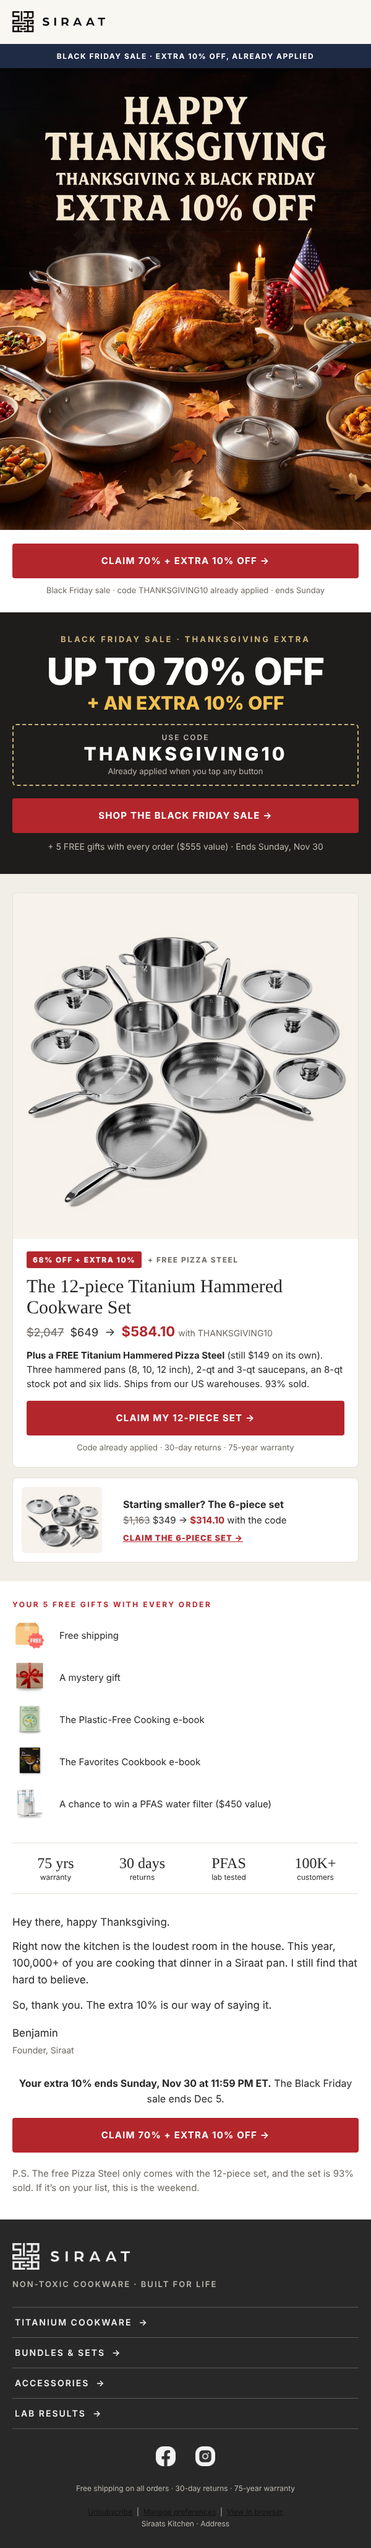
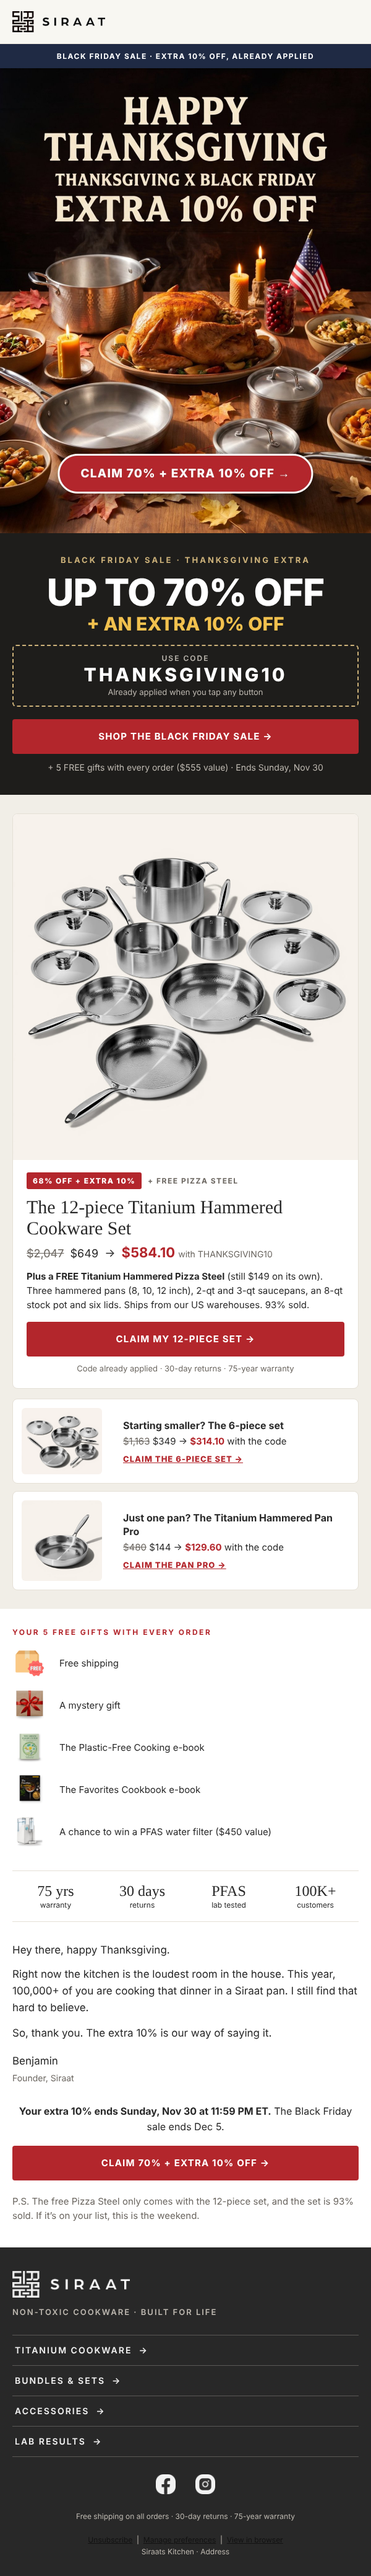
US Thanksgiving: CTA pill in hero, Pan Pro card
Claude-Session: https://claude.ai/code/session_01HjCaDE95ohEXY6DPZTSH67

diff --git a/klaviyo/templates/v3/campaigns/thanksgiving-1126/us.html b/klaviyo/templates/v3/campaigns/thanksgiving-1126/us.html
@@ -18,11 +18,11 @@
 </td></tr>
 
 <tr><td bgcolor="#1F2A44" style="background-color:#1F2A44;padding:11px 20px;text-align:center;font-family:Inter,Arial,Helvetica,sans-serif;font-size:12px;line-height:17px;letter-spacing:1.5px;font-weight:700;color:#FFFFFF;">BLACK FRIDAY SALE &middot; EXTRA 10% OFF, ALREADY APPLIED</td></tr>
-<tr><td style="padding:0;"><a href="https://siraatskitchen.com/discount/THANKSGIVING10?redirect=/collections/black-friday-sale&utm_source=klaviyo&utm_medium=email&utm_campaign=thanksgiving-1126-us&utm_content=hero"><img src="https://cdn.klaviyomail.com/company/TdtTzz/images/2dc59602-fd53-498e-814d-aebfafda4e72.jpeg" width="600" alt="Happy Thanksgiving. Thanksgiving x Black Friday, extra 10% off." style="display:block;width:100%;max-width:600px;height:auto;border:0;"></a></td></tr>
-<tr><td class="pad" bgcolor="#FFFFFF" style="padding:22px 40px 26px 40px;background-color:#FFFFFF;"><table role="presentation" width="100%" cellpadding="0" cellspacing="0" border="0"><tr><td align="center" bgcolor="#B3262C" style="background-color:#B3262C;border-radius:4px;"><a href="https://siraatskitchen.com/discount/THANKSGIVING10?redirect=/collections/black-friday-sale&utm_source=klaviyo&utm_medium=email&utm_campaign=thanksgiving-1126-us&utm_content=hero-btn" style="display:block;padding:18px 20px;font-family:Inter,Arial,Helvetica,sans-serif;font-size:15px;line-height:20px;font-weight:700;letter-spacing:1.2px;text-transform:uppercase;color:#FFFFFF;text-decoration:none;">Claim 70% + extra 10% off &rarr;</a></td></tr></table><div style="font-family:Inter,Arial,Helvetica,sans-serif;font-size:13px;line-height:19px;color:#6B6660;text-align:center;padding:10px 0 0 0;">Black Friday sale &middot; code THANKSGIVING10 already applied &middot; ends Sunday</div></td></tr>
+<tr><td style="padding:0;"><a href="https://siraatskitchen.com/discount/THANKSGIVING10?redirect=/collections/black-friday-sale&utm_source=klaviyo&utm_medium=email&utm_campaign=thanksgiving-1126-us&utm_content=hero"><img src="https://cdn.klaviyomail.com/company/TdtTzz/images/cd7837e2-7ead-4f54-aa2d-1afe2ec527fb.jpeg" width="600" alt="Happy Thanksgiving. Thanksgiving x Black Friday, extra 10% off. Claim 70% + extra 10% off." style="display:block;width:100%;max-width:600px;height:auto;border:0;"></a></td></tr>
 <tr><td class="pad" bgcolor="#1E1D1B" style="padding:34px 40px 34px 40px;background-color:#1E1D1B;"><div style="font-family:Inter,Arial,Helvetica,sans-serif;font-size:13px;line-height:18px;letter-spacing:3px;font-weight:700;color:#CDB27A;text-align:center;">BLACK FRIDAY SALE &middot; THANKSGIVING EXTRA</div><div style="font-family:Inter,Arial,Helvetica,sans-serif;font-size:60px;line-height:62px;font-weight:800;color:#FFFFFF;text-align:center;padding:12px 0 2px 0;letter-spacing:-1px;">UP TO 70% OFF</div><div style="font-family:Inter,Arial,Helvetica,sans-serif;font-size:30px;line-height:36px;font-weight:800;color:#F2C14E;text-align:center;padding-bottom:16px;">+ AN EXTRA 10% OFF</div><table role="presentation" width="100%" cellpadding="0" cellspacing="0" border="0"><tr><td align="center" style="border:2px dashed #CDB27A;border-radius:6px;padding:12px;"><div style="font-family:Inter,Arial,Helvetica,sans-serif;font-size:12px;letter-spacing:2px;font-weight:600;color:#BDB8B0;">USE CODE</div><div style="font-family:Inter,Arial,Helvetica,sans-serif;font-size:30px;line-height:38px;letter-spacing:4px;font-weight:800;color:#FFFFFF;">THANKSGIVING10</div><div style="font-family:Inter,Arial,Helvetica,sans-serif;font-size:13px;line-height:19px;color:#BDB8B0;">Already applied when you tap any button</div></td></tr></table><div style="height:20px;">&nbsp;</div><table role="presentation" width="100%" cellpadding="0" cellspacing="0" border="0"><tr><td align="center" bgcolor="#B3262C" style="background-color:#B3262C;border-radius:4px;"><a href="https://siraatskitchen.com/discount/THANKSGIVING10?redirect=/collections/black-friday-sale&utm_source=klaviyo&utm_medium=email&utm_campaign=thanksgiving-1126-us&utm_content=offer-btn" style="display:block;padding:18px 20px;font-family:Inter,Arial,Helvetica,sans-serif;font-size:15px;line-height:20px;font-weight:700;letter-spacing:1.2px;text-transform:uppercase;color:#FFFFFF;text-decoration:none;">Shop the Black Friday sale &rarr;</a></td></tr></table><div style="font-family:Inter,Arial,Helvetica,sans-serif;font-size:14px;line-height:20px;color:#BDB8B0;text-align:center;padding:12px 0 0 0;">+ 5 FREE gifts with every order ($555 value) &middot; Ends Sunday, Nov 30</div></td></tr>
 <tr><td class="pad" bgcolor="#F1EEE7" style="padding:30px 20px 16px 20px;background-color:#F1EEE7;"><table role="presentation" width="100%" cellpadding="0" cellspacing="0" border="0" style="background:#FFFFFF;border:1px solid #E5E0D6;border-radius:8px;"><tr><td style="padding:0;"><a href="https://siraatskitchen.com/discount/THANKSGIVING10?redirect=/products/titanium-hammered-cookware-set-12-pcs-free-pizza-steel-1&utm_source=klaviyo&utm_medium=email&utm_campaign=thanksgiving-1126-us&utm_content=set12-img"><img src="https://cdn.shopify.com/s/files/1/0907/0877/1156/files/12pcsset.webp?v=1781591412&width=1100&height=1100&crop=center&format=pjpg" width="558" alt="Siraat Titanium Hammered Cookware Set, 12 pieces" style="display:block;width:100%;max-width:558px;height:auto;border:0;border-radius:8px 8px 0 0;"></a></td></tr><tr><td style="padding:20px 22px 22px 22px;"><table role="presentation" cellpadding="0" cellspacing="0" border="0"><tr><td bgcolor="#B3262C" style="background-color:#B3262C;border-radius:3px;padding:6px 10px;font-family:Inter,Arial,Helvetica,sans-serif;font-size:12px;font-weight:800;letter-spacing:1.5px;color:#FFFFFF;">68% OFF + EXTRA 10%</td><td style="padding-left:10px;font-family:Inter,Arial,Helvetica,sans-serif;font-size:12px;font-weight:700;letter-spacing:1.5px;color:#6B6660;">+ FREE PIZZA STEEL</td></tr></table><div class="h2" style="font-family:'Instrument Serif','Times New Roman',Times,serif;font-size:30px;line-height:34px;color:#282828;padding:12px 0 8px 0;">The 12-piece Titanium Hammered Cookware Set</div><div style="font-family:Inter,Arial,Helvetica,sans-serif;font-size:18px;line-height:28px;color:#282828;text-align:left;padding:0 0 10px 0;"><span style="text-decoration:line-through;color:#6B6660;">$2,047</span> &nbsp;$649 &nbsp;&rarr;&nbsp; <b style="color:#B3262C;font-size:22px;">$584.10</b> <span style="color:#6B6660;font-size:14px;">with THANKSGIVING10</span></div><div style="font-family:Inter,Arial,Helvetica,sans-serif;font-size:15px;line-height:23px;color:#282828;text-align:left;padding:0 0 16px 0;"><b>Plus a FREE Titanium Hammered Pizza Steel</b> (still $149 on its own). Three hammered pans (8, 10, 12 inch), 2-qt and 3-qt saucepans, an 8-qt stock pot and six lids. Ships from our US warehouses. 93% sold.</div><table role="presentation" width="100%" cellpadding="0" cellspacing="0" border="0"><tr><td align="center" bgcolor="#B3262C" style="background-color:#B3262C;border-radius:4px;"><a href="https://siraatskitchen.com/discount/THANKSGIVING10?redirect=/products/titanium-hammered-cookware-set-12-pcs-free-pizza-steel-1&utm_source=klaviyo&utm_medium=email&utm_campaign=thanksgiving-1126-us&utm_content=set12-btn" style="display:block;padding:18px 20px;font-family:Inter,Arial,Helvetica,sans-serif;font-size:15px;line-height:20px;font-weight:700;letter-spacing:1.2px;text-transform:uppercase;color:#FFFFFF;text-decoration:none;">Claim my 12-piece set &rarr;</a></td></tr></table><div style="font-family:Inter,Arial,Helvetica,sans-serif;font-size:13px;line-height:19px;color:#6B6660;text-align:center;padding:10px 0 0 0;">Code already applied &middot; 30-day returns &middot; 75-year warranty</div></td></tr></table></td></tr>
-<tr><td class="pad" bgcolor="#F1EEE7" style="padding:0 20px 30px 20px;background-color:#F1EEE7;"><table role="presentation" width="100%" cellpadding="0" cellspacing="0" border="0" style="background:#FFFFFF;border:1px solid #E5E0D6;border-radius:8px;"><tr><td width="150" valign="middle" style="padding:14px;"><a href="https://siraatskitchen.com/discount/THANKSGIVING10?redirect=/products/titanium-hammered-pan-set-with-lids-6-pcs&utm_source=klaviyo&utm_medium=email&utm_campaign=thanksgiving-1126-us&utm_content=set6-img"><img src="https://cdn.shopify.com/s/files/1/0907/0877/1156/files/6pcscookwareset.webp?v=1783062518&width=1100&height=900&crop=center&format=pjpg" width="130" alt="Siraat 6-piece hammered pan set with lids" style="display:block;width:130px;height:auto;border-radius:6px;border:0;"></a></td><td valign="middle" style="padding:14px 14px 14px 0;"><div style="font-family:Inter,Arial,Helvetica,sans-serif;font-size:16px;line-height:22px;color:#282828;text-align:left;padding:0 0 4px 0;"><b>Starting smaller? The 6-piece set</b></div><div style="font-family:Inter,Arial,Helvetica,sans-serif;font-size:15px;line-height:22px;color:#282828;text-align:left;padding:0 0 8px 0;"><span style=text-decoration:line-through;color:#6B6660;>$1,163</span> $349 &rarr; <b style=color:#B3262C;>$314.10</b> with the code</div><a href="https://siraatskitchen.com/discount/THANKSGIVING10?redirect=/products/titanium-hammered-pan-set-with-lids-6-pcs&utm_source=klaviyo&utm_medium=email&utm_campaign=thanksgiving-1126-us&utm_content=set6-btn" style="font-family:Inter,Arial,Helvetica,sans-serif;font-size:13px;font-weight:800;letter-spacing:1px;color:#B3262C;">CLAIM THE 6-PIECE SET &rarr;</a></td></tr></table></td></tr>
+<tr><td class="pad" bgcolor="#F1EEE7" style="padding:0 20px 12px 20px;background-color:#F1EEE7;"><table role="presentation" width="100%" cellpadding="0" cellspacing="0" border="0" style="background:#FFFFFF;border:1px solid #E5E0D6;border-radius:8px;"><tr><td width="150" valign="middle" style="padding:14px;"><a href="https://siraatskitchen.com/discount/THANKSGIVING10?redirect=/products/titanium-hammered-pan-set-with-lids-6-pcs&utm_source=klaviyo&utm_medium=email&utm_campaign=thanksgiving-1126-us&utm_content=set6-img"><img src="https://cdn.shopify.com/s/files/1/0907/0877/1156/files/6pcscookwareset.webp?v=1783062518&width=1100&height=900&crop=center&format=pjpg" width="130" alt="Siraat 6-piece hammered pan set with lids" style="display:block;width:130px;height:auto;border-radius:6px;border:0;"></a></td><td valign="middle" style="padding:14px 14px 14px 0;"><div style="font-family:Inter,Arial,Helvetica,sans-serif;font-size:16px;line-height:22px;color:#282828;text-align:left;padding:0 0 4px 0;"><b>Starting smaller? The 6-piece set</b></div><div style="font-family:Inter,Arial,Helvetica,sans-serif;font-size:15px;line-height:22px;color:#282828;text-align:left;padding:0 0 8px 0;"><span style=text-decoration:line-through;color:#6B6660;>$1,163</span> $349 &rarr; <b style=color:#B3262C;>$314.10</b> with the code</div><a href="https://siraatskitchen.com/discount/THANKSGIVING10?redirect=/products/titanium-hammered-pan-set-with-lids-6-pcs&utm_source=klaviyo&utm_medium=email&utm_campaign=thanksgiving-1126-us&utm_content=set6-btn" style="font-family:Inter,Arial,Helvetica,sans-serif;font-size:13px;font-weight:800;letter-spacing:1px;color:#B3262C;">CLAIM THE 6-PIECE SET &rarr;</a></td></tr></table></td></tr>
+<tr><td class="pad" bgcolor="#F1EEE7" style="padding:0 20px 30px 20px;background-color:#F1EEE7;"><table role="presentation" width="100%" cellpadding="0" cellspacing="0" border="0" style="background:#FFFFFF;border:1px solid #E5E0D6;border-radius:8px;"><tr><td width="150" valign="middle" style="padding:14px;"><a href="https://siraatskitchen.com/discount/THANKSGIVING10?redirect=/products/original-siraat-100-pure-titanium-pan-with-hammered-pattern&utm_source=klaviyo&utm_medium=email&utm_campaign=thanksgiving-1126-us&utm_content=pan-img"><img src="https://cdn.shopify.com/s/files/1/0907/0877/1156/files/Titanium_hammered_pan_pro_standard_b69d1fc5-43d8-40a5-9ad7-523bdddc54d4.webp?v=1781682831&width=400&height=400&crop=center&format=pjpg" width="130" alt="Siraat Titanium Hammered Pan Pro Standard" style="display:block;width:130px;height:auto;border-radius:6px;border:0;"></a></td><td valign="middle" style="padding:14px 14px 14px 0;"><div style="font-family:Inter,Arial,Helvetica,sans-serif;font-size:16px;line-height:22px;color:#282828;text-align:left;padding:0 0 4px 0;"><b>Just one pan? The Titanium Hammered Pan Pro</b></div><div style="font-family:Inter,Arial,Helvetica,sans-serif;font-size:15px;line-height:22px;color:#282828;text-align:left;padding:0 0 8px 0;"><span style=text-decoration:line-through;color:#6B6660;>$480</span> $144 &rarr; <b style=color:#B3262C;>$129.60</b> with the code</div><a href="https://siraatskitchen.com/discount/THANKSGIVING10?redirect=/products/original-siraat-100-pure-titanium-pan-with-hammered-pattern&utm_source=klaviyo&utm_medium=email&utm_campaign=thanksgiving-1126-us&utm_content=pan-btn" style="font-family:Inter,Arial,Helvetica,sans-serif;font-size:13px;font-weight:800;letter-spacing:1px;color:#B3262C;">CLAIM THE PAN PRO &rarr;</a></td></tr></table></td></tr>
 <tr><td class="pad" bgcolor="#FFFFFF" style="padding:30px 40px 18px 40px;background-color:#FFFFFF;"><div style="font-family:Inter,Arial,Helvetica,sans-serif;font-size:12px;line-height:16px;letter-spacing:2.5px;font-weight:700;color:#B3262C;text-transform:uppercase;padding-bottom:8px;">Your 5 free gifts with every order</div><table role="presentation" width="100%" cellpadding="0" cellspacing="0" border="0"><tr><td width="64" style="padding:6px 12px 6px 0;"><img src="https://cdn.klaviyomail.com/company/TdtTzz/images/fc1878e8-1cc0-4699-8f62-1110afb1750e.jpeg" width="56" alt="" style="display:block;width:56px;height:56px;border-radius:6px;"></td><td style="font-family:Inter,Arial,Helvetica,sans-serif;font-size:15px;line-height:21px;color:#282828;">Free shipping</td></tr><tr><td width="64" style="padding:6px 12px 6px 0;"><img src="https://cdn.klaviyomail.com/company/TdtTzz/images/c97cf7a9-cccf-4472-a592-d49747b6d6a7.jpeg" width="56" alt="" style="display:block;width:56px;height:56px;border-radius:6px;"></td><td style="font-family:Inter,Arial,Helvetica,sans-serif;font-size:15px;line-height:21px;color:#282828;">A mystery gift</td></tr><tr><td width="64" style="padding:6px 12px 6px 0;"><img src="https://cdn.klaviyomail.com/company/TdtTzz/images/3fab7ff2-1993-48d2-8567-d9f3d0ce04dd.jpeg" width="56" alt="" style="display:block;width:56px;height:56px;border-radius:6px;"></td><td style="font-family:Inter,Arial,Helvetica,sans-serif;font-size:15px;line-height:21px;color:#282828;">The Plastic-Free Cooking e-book</td></tr><tr><td width="64" style="padding:6px 12px 6px 0;"><img src="https://cdn.klaviyomail.com/company/TdtTzz/images/dabf0446-a5d7-49ae-87f8-672e5692bf5b.jpeg" width="56" alt="" style="display:block;width:56px;height:56px;border-radius:6px;"></td><td style="font-family:Inter,Arial,Helvetica,sans-serif;font-size:15px;line-height:21px;color:#282828;">The Favorites Cookbook e-book</td></tr><tr><td width="64" style="padding:6px 12px 6px 0;"><img src="https://cdn.klaviyomail.com/company/TdtTzz/images/a6aec8e7-f289-424e-ab60-689f1ae85c39.jpeg" width="56" alt="" style="display:block;width:56px;height:56px;border-radius:6px;"></td><td style="font-family:Inter,Arial,Helvetica,sans-serif;font-size:15px;line-height:21px;color:#282828;">A chance to win a PFAS water filter ($450 value)</td></tr></table></td></tr>
 <tr><td class="pad" bgcolor="#FFFFFF" style="padding:10px 40px 6px 40px;background-color:#FFFFFF;"><table role="presentation" width="100%" cellpadding="0" cellspacing="0" border="0" style="border-top:1px solid #E5E0D6;border-bottom:1px solid #E5E0D6;"><tr><td style="padding:18px 0;"><table role="presentation" width="100%" cellpadding="0" cellspacing="0" border="0"><tr><td width="25%" align="center" valign="top" style="padding:0 4px;font-family:Inter,Arial,Helvetica,sans-serif;font-size:12px;line-height:17px;color:#282828;"><div style="font-family:'Instrument Serif','Times New Roman',Times,serif;font-size:24px;line-height:28px;">75 yrs</div>warranty</td><td width="25%" align="center" valign="top" style="padding:0 4px;font-family:Inter,Arial,Helvetica,sans-serif;font-size:12px;line-height:17px;color:#282828;"><div style="font-family:'Instrument Serif','Times New Roman',Times,serif;font-size:24px;line-height:28px;">30 days</div>returns</td><td width="25%" align="center" valign="top" style="padding:0 4px;font-family:Inter,Arial,Helvetica,sans-serif;font-size:12px;line-height:17px;color:#282828;"><div style="font-family:'Instrument Serif','Times New Roman',Times,serif;font-size:24px;line-height:28px;">PFAS</div>lab tested</td><td width="25%" align="center" valign="top" style="padding:0 4px;font-family:Inter,Arial,Helvetica,sans-serif;font-size:12px;line-height:17px;color:#282828;"><div style="font-family:'Instrument Serif','Times New Roman',Times,serif;font-size:24px;line-height:28px;">100K+</div>customers</td></tr></table></td></tr></table></td></tr>
 <tr><td class="pad" bgcolor="#FFFFFF" style="padding:0 40px 10px 40px;background-color:#FFFFFF;"><div style="font-family:Inter,Arial,Helvetica,sans-serif;font-size:17px;line-height:27px;color:#282828;text-align:left;padding:26px 0 12px 0;">Hey {{ first_name|default:'there' }}, happy Thanksgiving.</div><div style="font-family:Inter,Arial,Helvetica,sans-serif;font-size:17px;line-height:27px;color:#282828;text-align:left;padding:0 0 14px 0;">Right now the kitchen is the loudest room in the house. This year, 100,000+ of you are cooking that dinner in a Siraat pan. I still find that hard to believe.</div><div style="font-family:Inter,Arial,Helvetica,sans-serif;font-size:17px;line-height:27px;color:#282828;text-align:left;padding:0 0 14px 0;">So, thank you. The extra 10% is our way of saying it.</div><div style="font-family:Inter,Arial,Helvetica,sans-serif;font-size:17px;line-height:27px;color:#282828;text-align:left;padding:4px 0 0 0;">Benjamin<br><span style="color:#6B6660;font-size:14px;">Founder, Siraat</span></div></td></tr>

diff --git a/klaviyo/templates/v3/campaigns/thanksgiving-1126/_tools/.preview/us.html b/klaviyo/templates/v3/campaigns/thanksgiving-1126/_tools/.preview/us.html
@@ -18,11 +18,11 @@
 </td></tr>
 
 <tr><td bgcolor="#1F2A44" style="background-color:#1F2A44;padding:11px 20px;text-align:center;font-family:Inter,Arial,Helvetica,sans-serif;font-size:12px;line-height:17px;letter-spacing:1.5px;font-weight:700;color:#FFFFFF;">BLACK FRIDAY SALE &middot; EXTRA 10% OFF, ALREADY APPLIED</td></tr>
-<tr><td style="padding:0;"><a href="https://siraatskitchen.com/discount/THANKSGIVING10?redirect=/collections/black-friday-sale&utm_source=klaviyo&utm_medium=email&utm_campaign=thanksgiving-1126-us&utm_content=hero"><img src="https://cdn.klaviyomail.com/company/TdtTzz/images/2dc59602-fd53-498e-814d-aebfafda4e72.jpeg" width="600" alt="Happy Thanksgiving. Thanksgiving x Black Friday, extra 10% off." style="display:block;width:100%;max-width:600px;height:auto;border:0;"></a></td></tr>
-<tr><td class="pad" bgcolor="#FFFFFF" style="padding:22px 40px 26px 40px;background-color:#FFFFFF;"><table role="presentation" width="100%" cellpadding="0" cellspacing="0" border="0"><tr><td align="center" bgcolor="#B3262C" style="background-color:#B3262C;border-radius:4px;"><a href="https://siraatskitchen.com/discount/THANKSGIVING10?redirect=/collections/black-friday-sale&utm_source=klaviyo&utm_medium=email&utm_campaign=thanksgiving-1126-us&utm_content=hero-btn" style="display:block;padding:18px 20px;font-family:Inter,Arial,Helvetica,sans-serif;font-size:15px;line-height:20px;font-weight:700;letter-spacing:1.2px;text-transform:uppercase;color:#FFFFFF;text-decoration:none;">Claim 70% + extra 10% off &rarr;</a></td></tr></table><div style="font-family:Inter,Arial,Helvetica,sans-serif;font-size:13px;line-height:19px;color:#6B6660;text-align:center;padding:10px 0 0 0;">Black Friday sale &middot; code THANKSGIVING10 already applied &middot; ends Sunday</div></td></tr>
+<tr><td style="padding:0;"><a href="https://siraatskitchen.com/discount/THANKSGIVING10?redirect=/collections/black-friday-sale&utm_source=klaviyo&utm_medium=email&utm_campaign=thanksgiving-1126-us&utm_content=hero"><img src="https://cdn.klaviyomail.com/company/TdtTzz/images/cd7837e2-7ead-4f54-aa2d-1afe2ec527fb.jpeg" width="600" alt="Happy Thanksgiving. Thanksgiving x Black Friday, extra 10% off. Claim 70% + extra 10% off." style="display:block;width:100%;max-width:600px;height:auto;border:0;"></a></td></tr>
 <tr><td class="pad" bgcolor="#1E1D1B" style="padding:34px 40px 34px 40px;background-color:#1E1D1B;"><div style="font-family:Inter,Arial,Helvetica,sans-serif;font-size:13px;line-height:18px;letter-spacing:3px;font-weight:700;color:#CDB27A;text-align:center;">BLACK FRIDAY SALE &middot; THANKSGIVING EXTRA</div><div style="font-family:Inter,Arial,Helvetica,sans-serif;font-size:60px;line-height:62px;font-weight:800;color:#FFFFFF;text-align:center;padding:12px 0 2px 0;letter-spacing:-1px;">UP TO 70% OFF</div><div style="font-family:Inter,Arial,Helvetica,sans-serif;font-size:30px;line-height:36px;font-weight:800;color:#F2C14E;text-align:center;padding-bottom:16px;">+ AN EXTRA 10% OFF</div><table role="presentation" width="100%" cellpadding="0" cellspacing="0" border="0"><tr><td align="center" style="border:2px dashed #CDB27A;border-radius:6px;padding:12px;"><div style="font-family:Inter,Arial,Helvetica,sans-serif;font-size:12px;letter-spacing:2px;font-weight:600;color:#BDB8B0;">USE CODE</div><div style="font-family:Inter,Arial,Helvetica,sans-serif;font-size:30px;line-height:38px;letter-spacing:4px;font-weight:800;color:#FFFFFF;">THANKSGIVING10</div><div style="font-family:Inter,Arial,Helvetica,sans-serif;font-size:13px;line-height:19px;color:#BDB8B0;">Already applied when you tap any button</div></td></tr></table><div style="height:20px;">&nbsp;</div><table role="presentation" width="100%" cellpadding="0" cellspacing="0" border="0"><tr><td align="center" bgcolor="#B3262C" style="background-color:#B3262C;border-radius:4px;"><a href="https://siraatskitchen.com/discount/THANKSGIVING10?redirect=/collections/black-friday-sale&utm_source=klaviyo&utm_medium=email&utm_campaign=thanksgiving-1126-us&utm_content=offer-btn" style="display:block;padding:18px 20px;font-family:Inter,Arial,Helvetica,sans-serif;font-size:15px;line-height:20px;font-weight:700;letter-spacing:1.2px;text-transform:uppercase;color:#FFFFFF;text-decoration:none;">Shop the Black Friday sale &rarr;</a></td></tr></table><div style="font-family:Inter,Arial,Helvetica,sans-serif;font-size:14px;line-height:20px;color:#BDB8B0;text-align:center;padding:12px 0 0 0;">+ 5 FREE gifts with every order ($555 value) &middot; Ends Sunday, Nov 30</div></td></tr>
 <tr><td class="pad" bgcolor="#F1EEE7" style="padding:30px 20px 16px 20px;background-color:#F1EEE7;"><table role="presentation" width="100%" cellpadding="0" cellspacing="0" border="0" style="background:#FFFFFF;border:1px solid #E5E0D6;border-radius:8px;"><tr><td style="padding:0;"><a href="https://siraatskitchen.com/discount/THANKSGIVING10?redirect=/products/titanium-hammered-cookware-set-12-pcs-free-pizza-steel-1&utm_source=klaviyo&utm_medium=email&utm_campaign=thanksgiving-1126-us&utm_content=set12-img"><img src="https://cdn.shopify.com/s/files/1/0907/0877/1156/files/12pcsset.webp?v=1781591412&width=1100&height=1100&crop=center&format=pjpg" width="558" alt="Siraat Titanium Hammered Cookware Set, 12 pieces" style="display:block;width:100%;max-width:558px;height:auto;border:0;border-radius:8px 8px 0 0;"></a></td></tr><tr><td style="padding:20px 22px 22px 22px;"><table role="presentation" cellpadding="0" cellspacing="0" border="0"><tr><td bgcolor="#B3262C" style="background-color:#B3262C;border-radius:3px;padding:6px 10px;font-family:Inter,Arial,Helvetica,sans-serif;font-size:12px;font-weight:800;letter-spacing:1.5px;color:#FFFFFF;">68% OFF + EXTRA 10%</td><td style="padding-left:10px;font-family:Inter,Arial,Helvetica,sans-serif;font-size:12px;font-weight:700;letter-spacing:1.5px;color:#6B6660;">+ FREE PIZZA STEEL</td></tr></table><div class="h2" style="font-family:'Instrument Serif','Times New Roman',Times,serif;font-size:30px;line-height:34px;color:#282828;padding:12px 0 8px 0;">The 12-piece Titanium Hammered Cookware Set</div><div style="font-family:Inter,Arial,Helvetica,sans-serif;font-size:18px;line-height:28px;color:#282828;text-align:left;padding:0 0 10px 0;"><span style="text-decoration:line-through;color:#6B6660;">$2,047</span> &nbsp;$649 &nbsp;&rarr;&nbsp; <b style="color:#B3262C;font-size:22px;">$584.10</b> <span style="color:#6B6660;font-size:14px;">with THANKSGIVING10</span></div><div style="font-family:Inter,Arial,Helvetica,sans-serif;font-size:15px;line-height:23px;color:#282828;text-align:left;padding:0 0 16px 0;"><b>Plus a FREE Titanium Hammered Pizza Steel</b> (still $149 on its own). Three hammered pans (8, 10, 12 inch), 2-qt and 3-qt saucepans, an 8-qt stock pot and six lids. Ships from our US warehouses. 93% sold.</div><table role="presentation" width="100%" cellpadding="0" cellspacing="0" border="0"><tr><td align="center" bgcolor="#B3262C" style="background-color:#B3262C;border-radius:4px;"><a href="https://siraatskitchen.com/discount/THANKSGIVING10?redirect=/products/titanium-hammered-cookware-set-12-pcs-free-pizza-steel-1&utm_source=klaviyo&utm_medium=email&utm_campaign=thanksgiving-1126-us&utm_content=set12-btn" style="display:block;padding:18px 20px;font-family:Inter,Arial,Helvetica,sans-serif;font-size:15px;line-height:20px;font-weight:700;letter-spacing:1.2px;text-transform:uppercase;color:#FFFFFF;text-decoration:none;">Claim my 12-piece set &rarr;</a></td></tr></table><div style="font-family:Inter,Arial,Helvetica,sans-serif;font-size:13px;line-height:19px;color:#6B6660;text-align:center;padding:10px 0 0 0;">Code already applied &middot; 30-day returns &middot; 75-year warranty</div></td></tr></table></td></tr>
-<tr><td class="pad" bgcolor="#F1EEE7" style="padding:0 20px 30px 20px;background-color:#F1EEE7;"><table role="presentation" width="100%" cellpadding="0" cellspacing="0" border="0" style="background:#FFFFFF;border:1px solid #E5E0D6;border-radius:8px;"><tr><td width="150" valign="middle" style="padding:14px;"><a href="https://siraatskitchen.com/discount/THANKSGIVING10?redirect=/products/titanium-hammered-pan-set-with-lids-6-pcs&utm_source=klaviyo&utm_medium=email&utm_campaign=thanksgiving-1126-us&utm_content=set6-img"><img src="https://cdn.shopify.com/s/files/1/0907/0877/1156/files/6pcscookwareset.webp?v=1783062518&width=1100&height=900&crop=center&format=pjpg" width="130" alt="Siraat 6-piece hammered pan set with lids" style="display:block;width:130px;height:auto;border-radius:6px;border:0;"></a></td><td valign="middle" style="padding:14px 14px 14px 0;"><div style="font-family:Inter,Arial,Helvetica,sans-serif;font-size:16px;line-height:22px;color:#282828;text-align:left;padding:0 0 4px 0;"><b>Starting smaller? The 6-piece set</b></div><div style="font-family:Inter,Arial,Helvetica,sans-serif;font-size:15px;line-height:22px;color:#282828;text-align:left;padding:0 0 8px 0;"><span style=text-decoration:line-through;color:#6B6660;>$1,163</span> $349 &rarr; <b style=color:#B3262C;>$314.10</b> with the code</div><a href="https://siraatskitchen.com/discount/THANKSGIVING10?redirect=/products/titanium-hammered-pan-set-with-lids-6-pcs&utm_source=klaviyo&utm_medium=email&utm_campaign=thanksgiving-1126-us&utm_content=set6-btn" style="font-family:Inter,Arial,Helvetica,sans-serif;font-size:13px;font-weight:800;letter-spacing:1px;color:#B3262C;">CLAIM THE 6-PIECE SET &rarr;</a></td></tr></table></td></tr>
+<tr><td class="pad" bgcolor="#F1EEE7" style="padding:0 20px 12px 20px;background-color:#F1EEE7;"><table role="presentation" width="100%" cellpadding="0" cellspacing="0" border="0" style="background:#FFFFFF;border:1px solid #E5E0D6;border-radius:8px;"><tr><td width="150" valign="middle" style="padding:14px;"><a href="https://siraatskitchen.com/discount/THANKSGIVING10?redirect=/products/titanium-hammered-pan-set-with-lids-6-pcs&utm_source=klaviyo&utm_medium=email&utm_campaign=thanksgiving-1126-us&utm_content=set6-img"><img src="https://cdn.shopify.com/s/files/1/0907/0877/1156/files/6pcscookwareset.webp?v=1783062518&width=1100&height=900&crop=center&format=pjpg" width="130" alt="Siraat 6-piece hammered pan set with lids" style="display:block;width:130px;height:auto;border-radius:6px;border:0;"></a></td><td valign="middle" style="padding:14px 14px 14px 0;"><div style="font-family:Inter,Arial,Helvetica,sans-serif;font-size:16px;line-height:22px;color:#282828;text-align:left;padding:0 0 4px 0;"><b>Starting smaller? The 6-piece set</b></div><div style="font-family:Inter,Arial,Helvetica,sans-serif;font-size:15px;line-height:22px;color:#282828;text-align:left;padding:0 0 8px 0;"><span style=text-decoration:line-through;color:#6B6660;>$1,163</span> $349 &rarr; <b style=color:#B3262C;>$314.10</b> with the code</div><a href="https://siraatskitchen.com/discount/THANKSGIVING10?redirect=/products/titanium-hammered-pan-set-with-lids-6-pcs&utm_source=klaviyo&utm_medium=email&utm_campaign=thanksgiving-1126-us&utm_content=set6-btn" style="font-family:Inter,Arial,Helvetica,sans-serif;font-size:13px;font-weight:800;letter-spacing:1px;color:#B3262C;">CLAIM THE 6-PIECE SET &rarr;</a></td></tr></table></td></tr>
+<tr><td class="pad" bgcolor="#F1EEE7" style="padding:0 20px 30px 20px;background-color:#F1EEE7;"><table role="presentation" width="100%" cellpadding="0" cellspacing="0" border="0" style="background:#FFFFFF;border:1px solid #E5E0D6;border-radius:8px;"><tr><td width="150" valign="middle" style="padding:14px;"><a href="https://siraatskitchen.com/discount/THANKSGIVING10?redirect=/products/original-siraat-100-pure-titanium-pan-with-hammered-pattern&utm_source=klaviyo&utm_medium=email&utm_campaign=thanksgiving-1126-us&utm_content=pan-img"><img src="https://cdn.shopify.com/s/files/1/0907/0877/1156/files/Titanium_hammered_pan_pro_standard_b69d1fc5-43d8-40a5-9ad7-523bdddc54d4.webp?v=1781682831&width=400&height=400&crop=center&format=pjpg" width="130" alt="Siraat Titanium Hammered Pan Pro Standard" style="display:block;width:130px;height:auto;border-radius:6px;border:0;"></a></td><td valign="middle" style="padding:14px 14px 14px 0;"><div style="font-family:Inter,Arial,Helvetica,sans-serif;font-size:16px;line-height:22px;color:#282828;text-align:left;padding:0 0 4px 0;"><b>Just one pan? The Titanium Hammered Pan Pro</b></div><div style="font-family:Inter,Arial,Helvetica,sans-serif;font-size:15px;line-height:22px;color:#282828;text-align:left;padding:0 0 8px 0;"><span style=text-decoration:line-through;color:#6B6660;>$480</span> $144 &rarr; <b style=color:#B3262C;>$129.60</b> with the code</div><a href="https://siraatskitchen.com/discount/THANKSGIVING10?redirect=/products/original-siraat-100-pure-titanium-pan-with-hammered-pattern&utm_source=klaviyo&utm_medium=email&utm_campaign=thanksgiving-1126-us&utm_content=pan-btn" style="font-family:Inter,Arial,Helvetica,sans-serif;font-size:13px;font-weight:800;letter-spacing:1px;color:#B3262C;">CLAIM THE PAN PRO &rarr;</a></td></tr></table></td></tr>
 <tr><td class="pad" bgcolor="#FFFFFF" style="padding:30px 40px 18px 40px;background-color:#FFFFFF;"><div style="font-family:Inter,Arial,Helvetica,sans-serif;font-size:12px;line-height:16px;letter-spacing:2.5px;font-weight:700;color:#B3262C;text-transform:uppercase;padding-bottom:8px;">Your 5 free gifts with every order</div><table role="presentation" width="100%" cellpadding="0" cellspacing="0" border="0"><tr><td width="64" style="padding:6px 12px 6px 0;"><img src="https://cdn.klaviyomail.com/company/TdtTzz/images/fc1878e8-1cc0-4699-8f62-1110afb1750e.jpeg" width="56" alt="" style="display:block;width:56px;height:56px;border-radius:6px;"></td><td style="font-family:Inter,Arial,Helvetica,sans-serif;font-size:15px;line-height:21px;color:#282828;">Free shipping</td></tr><tr><td width="64" style="padding:6px 12px 6px 0;"><img src="https://cdn.klaviyomail.com/company/TdtTzz/images/c97cf7a9-cccf-4472-a592-d49747b6d6a7.jpeg" width="56" alt="" style="display:block;width:56px;height:56px;border-radius:6px;"></td><td style="font-family:Inter,Arial,Helvetica,sans-serif;font-size:15px;line-height:21px;color:#282828;">A mystery gift</td></tr><tr><td width="64" style="padding:6px 12px 6px 0;"><img src="https://cdn.klaviyomail.com/company/TdtTzz/images/3fab7ff2-1993-48d2-8567-d9f3d0ce04dd.jpeg" width="56" alt="" style="display:block;width:56px;height:56px;border-radius:6px;"></td><td style="font-family:Inter,Arial,Helvetica,sans-serif;font-size:15px;line-height:21px;color:#282828;">The Plastic-Free Cooking e-book</td></tr><tr><td width="64" style="padding:6px 12px 6px 0;"><img src="https://cdn.klaviyomail.com/company/TdtTzz/images/dabf0446-a5d7-49ae-87f8-672e5692bf5b.jpeg" width="56" alt="" style="display:block;width:56px;height:56px;border-radius:6px;"></td><td style="font-family:Inter,Arial,Helvetica,sans-serif;font-size:15px;line-height:21px;color:#282828;">The Favorites Cookbook e-book</td></tr><tr><td width="64" style="padding:6px 12px 6px 0;"><img src="https://cdn.klaviyomail.com/company/TdtTzz/images/a6aec8e7-f289-424e-ab60-689f1ae85c39.jpeg" width="56" alt="" style="display:block;width:56px;height:56px;border-radius:6px;"></td><td style="font-family:Inter,Arial,Helvetica,sans-serif;font-size:15px;line-height:21px;color:#282828;">A chance to win a PFAS water filter ($450 value)</td></tr></table></td></tr>
 <tr><td class="pad" bgcolor="#FFFFFF" style="padding:10px 40px 6px 40px;background-color:#FFFFFF;"><table role="presentation" width="100%" cellpadding="0" cellspacing="0" border="0" style="border-top:1px solid #E5E0D6;border-bottom:1px solid #E5E0D6;"><tr><td style="padding:18px 0;"><table role="presentation" width="100%" cellpadding="0" cellspacing="0" border="0"><tr><td width="25%" align="center" valign="top" style="padding:0 4px;font-family:Inter,Arial,Helvetica,sans-serif;font-size:12px;line-height:17px;color:#282828;"><div style="font-family:'Instrument Serif','Times New Roman',Times,serif;font-size:24px;line-height:28px;">75 yrs</div>warranty</td><td width="25%" align="center" valign="top" style="padding:0 4px;font-family:Inter,Arial,Helvetica,sans-serif;font-size:12px;line-height:17px;color:#282828;"><div style="font-family:'Instrument Serif','Times New Roman',Times,serif;font-size:24px;line-height:28px;">30 days</div>returns</td><td width="25%" align="center" valign="top" style="padding:0 4px;font-family:Inter,Arial,Helvetica,sans-serif;font-size:12px;line-height:17px;color:#282828;"><div style="font-family:'Instrument Serif','Times New Roman',Times,serif;font-size:24px;line-height:28px;">PFAS</div>lab tested</td><td width="25%" align="center" valign="top" style="padding:0 4px;font-family:Inter,Arial,Helvetica,sans-serif;font-size:12px;line-height:17px;color:#282828;"><div style="font-family:'Instrument Serif','Times New Roman',Times,serif;font-size:24px;line-height:28px;">100K+</div>customers</td></tr></table></td></tr></table></td></tr>
 <tr><td class="pad" bgcolor="#FFFFFF" style="padding:0 40px 10px 40px;background-color:#FFFFFF;"><div style="font-family:Inter,Arial,Helvetica,sans-serif;font-size:17px;line-height:27px;color:#282828;text-align:left;padding:26px 0 12px 0;">Hey there, happy Thanksgiving.</div><div style="font-family:Inter,Arial,Helvetica,sans-serif;font-size:17px;line-height:27px;color:#282828;text-align:left;padding:0 0 14px 0;">Right now the kitchen is the loudest room in the house. This year, 100,000+ of you are cooking that dinner in a Siraat pan. I still find that hard to believe.</div><div style="font-family:Inter,Arial,Helvetica,sans-serif;font-size:17px;line-height:27px;color:#282828;text-align:left;padding:0 0 14px 0;">So, thank you. The extra 10% is our way of saying it.</div><div style="font-family:Inter,Arial,Helvetica,sans-serif;font-size:17px;line-height:27px;color:#282828;text-align:left;padding:4px 0 0 0;">Benjamin<br><span style="color:#6B6660;font-size:14px;">Founder, Siraat</span></div></td></tr>

diff --git a/klaviyo/templates/v3/campaigns/thanksgiving-1126/_tools/us-hero.html b/klaviyo/templates/v3/campaigns/thanksgiving-1126/_tools/us-hero.html
@@ -1,0 +1,5 @@
+<html><head><link href="https://fonts.googleapis.com/css2?family=Inter:wght@800&display=swap" rel="stylesheet"><style>
+body{margin:0}.s{position:relative;width:600px;height:750px;overflow:hidden}
+.s img{width:600px;height:750px;object-fit:cover;display:block}
+.b{position:absolute;left:50%;bottom:64px;transform:translateX(-50%);white-space:nowrap;background:#B3262C;border:3px solid #FFFFFF;border-radius:999px;padding:17px 34px;font-family:Inter,Arial,sans-serif;font-weight:800;font-size:19px;letter-spacing:1.2px;color:#fff;box-shadow:0 10px 28px rgba(0,0,0,.55)}
+</style></head><body><div class="s"><img src="hero-base.jpg"><div class="b">CLAIM 70% + EXTRA 10% OFF &rarr;</div></div></body></html>

diff --git a/klaviyo/templates/v3/campaigns/thanksgiving-1126/_tools/build.py b/klaviyo/templates/v3/campaigns/thanksgiving-1126/_tools/build.py
@@ -22,6 +22,8 @@ def link(path, market, content, code='THANKSGIVING10'):
 SET12 = '/products/titanium-hammered-cookware-set-12-pcs-free-pizza-steel-1'
 SET6 = '/products/titanium-hammered-pan-set-with-lids-6-pcs'
 SALE = '/collections/black-friday-sale'
+PAN = '/products/original-siraat-100-pure-titanium-pan-with-hammered-pattern'
+IMGPAN = 'https://cdn.shopify.com/s/files/1/0907/0877/1156/files/Titanium_hammered_pan_pro_standard_b69d1fc5-43d8-40a5-9ad7-523bdddc54d4.webp?v=1781682831&width=400&height=400&crop=center&format=pjpg'
 IMG12 = 'https://cdn.shopify.com/s/files/1/0907/0877/1156/files/12pcsset.webp?v=1781591412&width=1100&height=900&crop=bottom&format=pjpg'
 IMG6 = 'https://cdn.shopify.com/s/files/1/0907/0877/1156/files/6pcscookwareset.webp?v=1783062518&width=1100&height=900&crop=center&format=pjpg'
 
@@ -85,9 +87,7 @@ IMG12SQ = 'https://cdn.shopify.com/s/files/1/0907/0877/1156/files/12pcsset.webp?
 def us():
     m = 'us'
     b = topbar('BLACK FRIDAY SALE &middot; EXTRA 10% OFF, ALREADY APPLIED')
-    b += f'<tr><td style="padding:0;"><a href="{link(SALE, m, "hero")}"><img src="{UP["us-hero-thanksgiving.jpg"]}" width="600" alt="Happy Thanksgiving. Thanksgiving x Black Friday, extra 10% off." style="display:block;width:100%;max-width:600px;height:auto;border:0;"></a></td></tr>\n'
-    b += row(btn('Claim 70% + extra 10% off &rarr;', link(SALE, m, 'hero-btn')) +
-             p('Black Friday sale &middot; code THANKSGIVING10 already applied &middot; ends Sunday', 13, 19, MUTED, '10px 0 0 0', 'center'), '22px 40px 26px 40px')
+    b += f'<tr><td style="padding:0;"><a href="{link(SALE, m, "hero")}"><img src="{UP["us-hero-thanksgiving-btn.jpg"]}" width="600" alt="Happy Thanksgiving. Thanksgiving x Black Friday, extra 10% off. Claim 70% + extra 10% off." style="display:block;width:100%;max-width:600px;height:auto;border:0;"></a></td></tr>\n'
     offer = (f'<div style="font-family:{SANS};font-size:13px;line-height:18px;letter-spacing:3px;font-weight:700;color:#CDB27A;text-align:center;">BLACK FRIDAY SALE &middot; THANKSGIVING EXTRA</div>'
              f'<div style="font-family:{SANS};font-size:60px;line-height:62px;font-weight:800;color:#FFFFFF;text-align:center;padding:12px 0 2px 0;letter-spacing:-1px;">UP TO 70% OFF</div>'
              f'<div style="font-family:{SANS};font-size:30px;line-height:36px;font-weight:800;color:#F2C14E;text-align:center;padding-bottom:16px;">+ AN EXTRA 10% OFF</div>'
@@ -115,7 +115,13 @@ def us():
            f'<td valign="middle" style="padding:14px 14px 14px 0;">{p("<b>Starting smaller? The 6-piece set</b>", 16, 22, pad="0 0 4px 0")}'
            f'{p(f"<span style=text-decoration:line-through;color:{MUTED};>$1,163</span> $349 &rarr; <b style=color:{RED};>$314.10</b> with the code", 15, 22, pad="0 0 8px 0")}'
            f'<a href="{link(SET6, m, "set6-btn")}" style="font-family:{SANS};font-size:13px;font-weight:800;letter-spacing:1px;color:{RED};">CLAIM THE 6-PIECE SET &rarr;</a></td></tr></table>')
-    b += row(six, '0 20px 30px 20px', PANEL)
+    pan = (f'<table role="presentation" width="100%" cellpadding="0" cellspacing="0" border="0" style="background:#FFFFFF;border:1px solid {LINE};border-radius:8px;"><tr>'
+           f'<td width="150" valign="middle" style="padding:14px;"><a href="{link(PAN, m, "pan-img")}"><img src="{IMGPAN}" width="130" alt="Siraat Titanium Hammered Pan Pro Standard" style="display:block;width:130px;height:auto;border-radius:6px;border:0;"></a></td>'
+           f'<td valign="middle" style="padding:14px 14px 14px 0;">{p("<b>Just one pan? The Titanium Hammered Pan Pro</b>", 16, 22, pad="0 0 4px 0")}'
+           f'{p(f"<span style=text-decoration:line-through;color:{MUTED};>$480</span> $144 &rarr; <b style=color:{RED};>$129.60</b> with the code", 15, 22, pad="0 0 8px 0")}'
+           f'<a href="{link(PAN, m, "pan-btn")}" style="font-family:{SANS};font-size:13px;font-weight:800;letter-spacing:1px;color:{RED};">CLAIM THE PAN PRO &rarr;</a></td></tr></table>')
+    b += row(six, '0 20px 12px 20px', PANEL)
+    b += row(pan, '0 20px 30px 20px', PANEL)
     b += row(gifts(GIFTS_US, 'Your 5 free gifts with every order'), '30px 40px 18px 40px')
     trust = ''.join(f'<td width="25%" align="center" valign="top" style="padding:0 4px;font-family:{SANS};font-size:12px;line-height:17px;color:{INK};">'
                     f'<div style="font-family:{SERIF};font-size:24px;line-height:28px;">{x}</div>{y}</td>'

diff --git a/LOG.md b/LOG.md
@@ -667,3 +667,4 @@ Nieuwste bovenaan. Elke regel: datum, wat er gedaan is, wat het opleverde of wat
 - 2026-11-26 · Thanksgiving US + INTL mails in Figma gezet (pagina 'Thanksgiving 26 nov', node 492:106).
 - 2026-11-26 · INTL Thanksgiving-mail herschreven op verzoek Floris: As seen in Bon Appétit, direct response met groot aanbodblok, code BONAPPETIT10 (nieuw in Shopify, 10% alles t/m 30 nov 23:59 ET), template SgEp5D bijgewerkt, test verstuurd, Figma bijgewerkt.
 - 2026-11-26 · US Thanksgiving-mail omgebouwd (Floris): knop direct onder hero 'Claim 70% + extra 10% off' (geen 80%: echte max 73%), groot aanbodblok, vierkante setfoto, Benjamin lager. R7fybM bijgewerkt, test verstuurd, Figma bijgewerkt.
+- 2026-11-26 · US Thanksgiving: losse knop onder hero weg, ronde rode knop met witte rand in de hero ('Claim 70% + extra 10% off', niet 80%), Pan Pro Standard ($144 -> $129.60) onder 6-delige set. R7fybM + Figma bijgewerkt, test verstuurd. Codes THANKSGIVING10 en BONAPPETIT10 actief.
